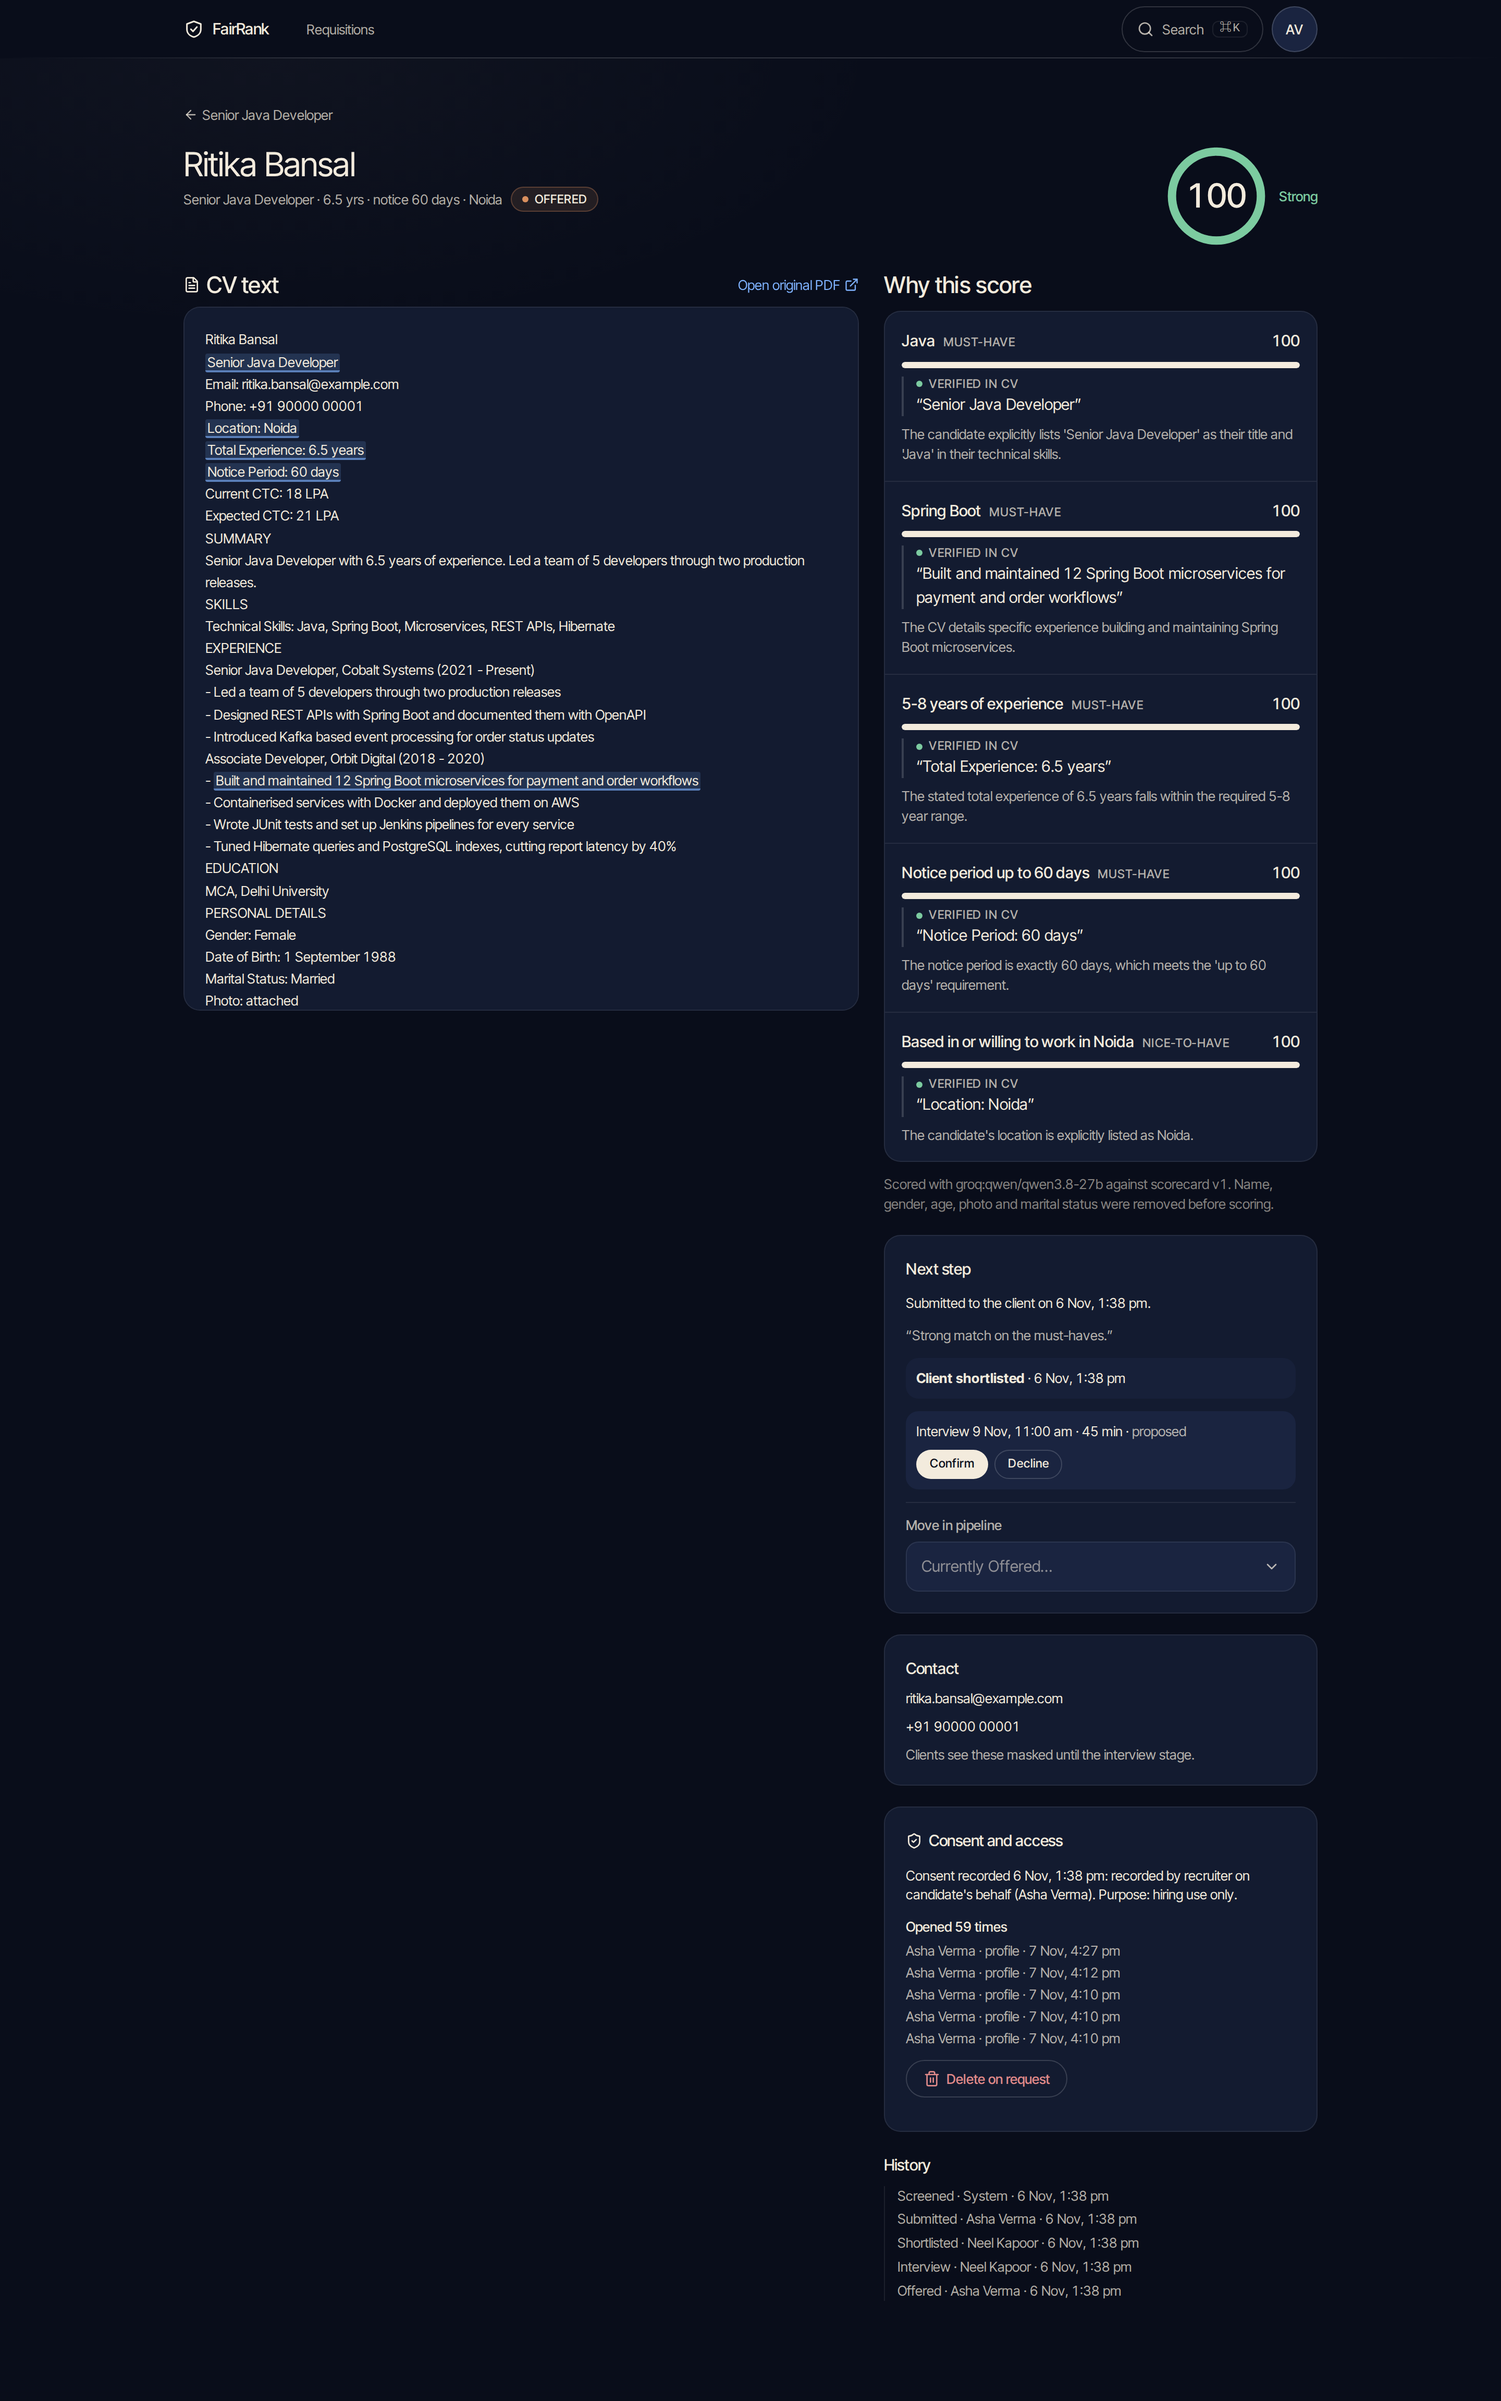
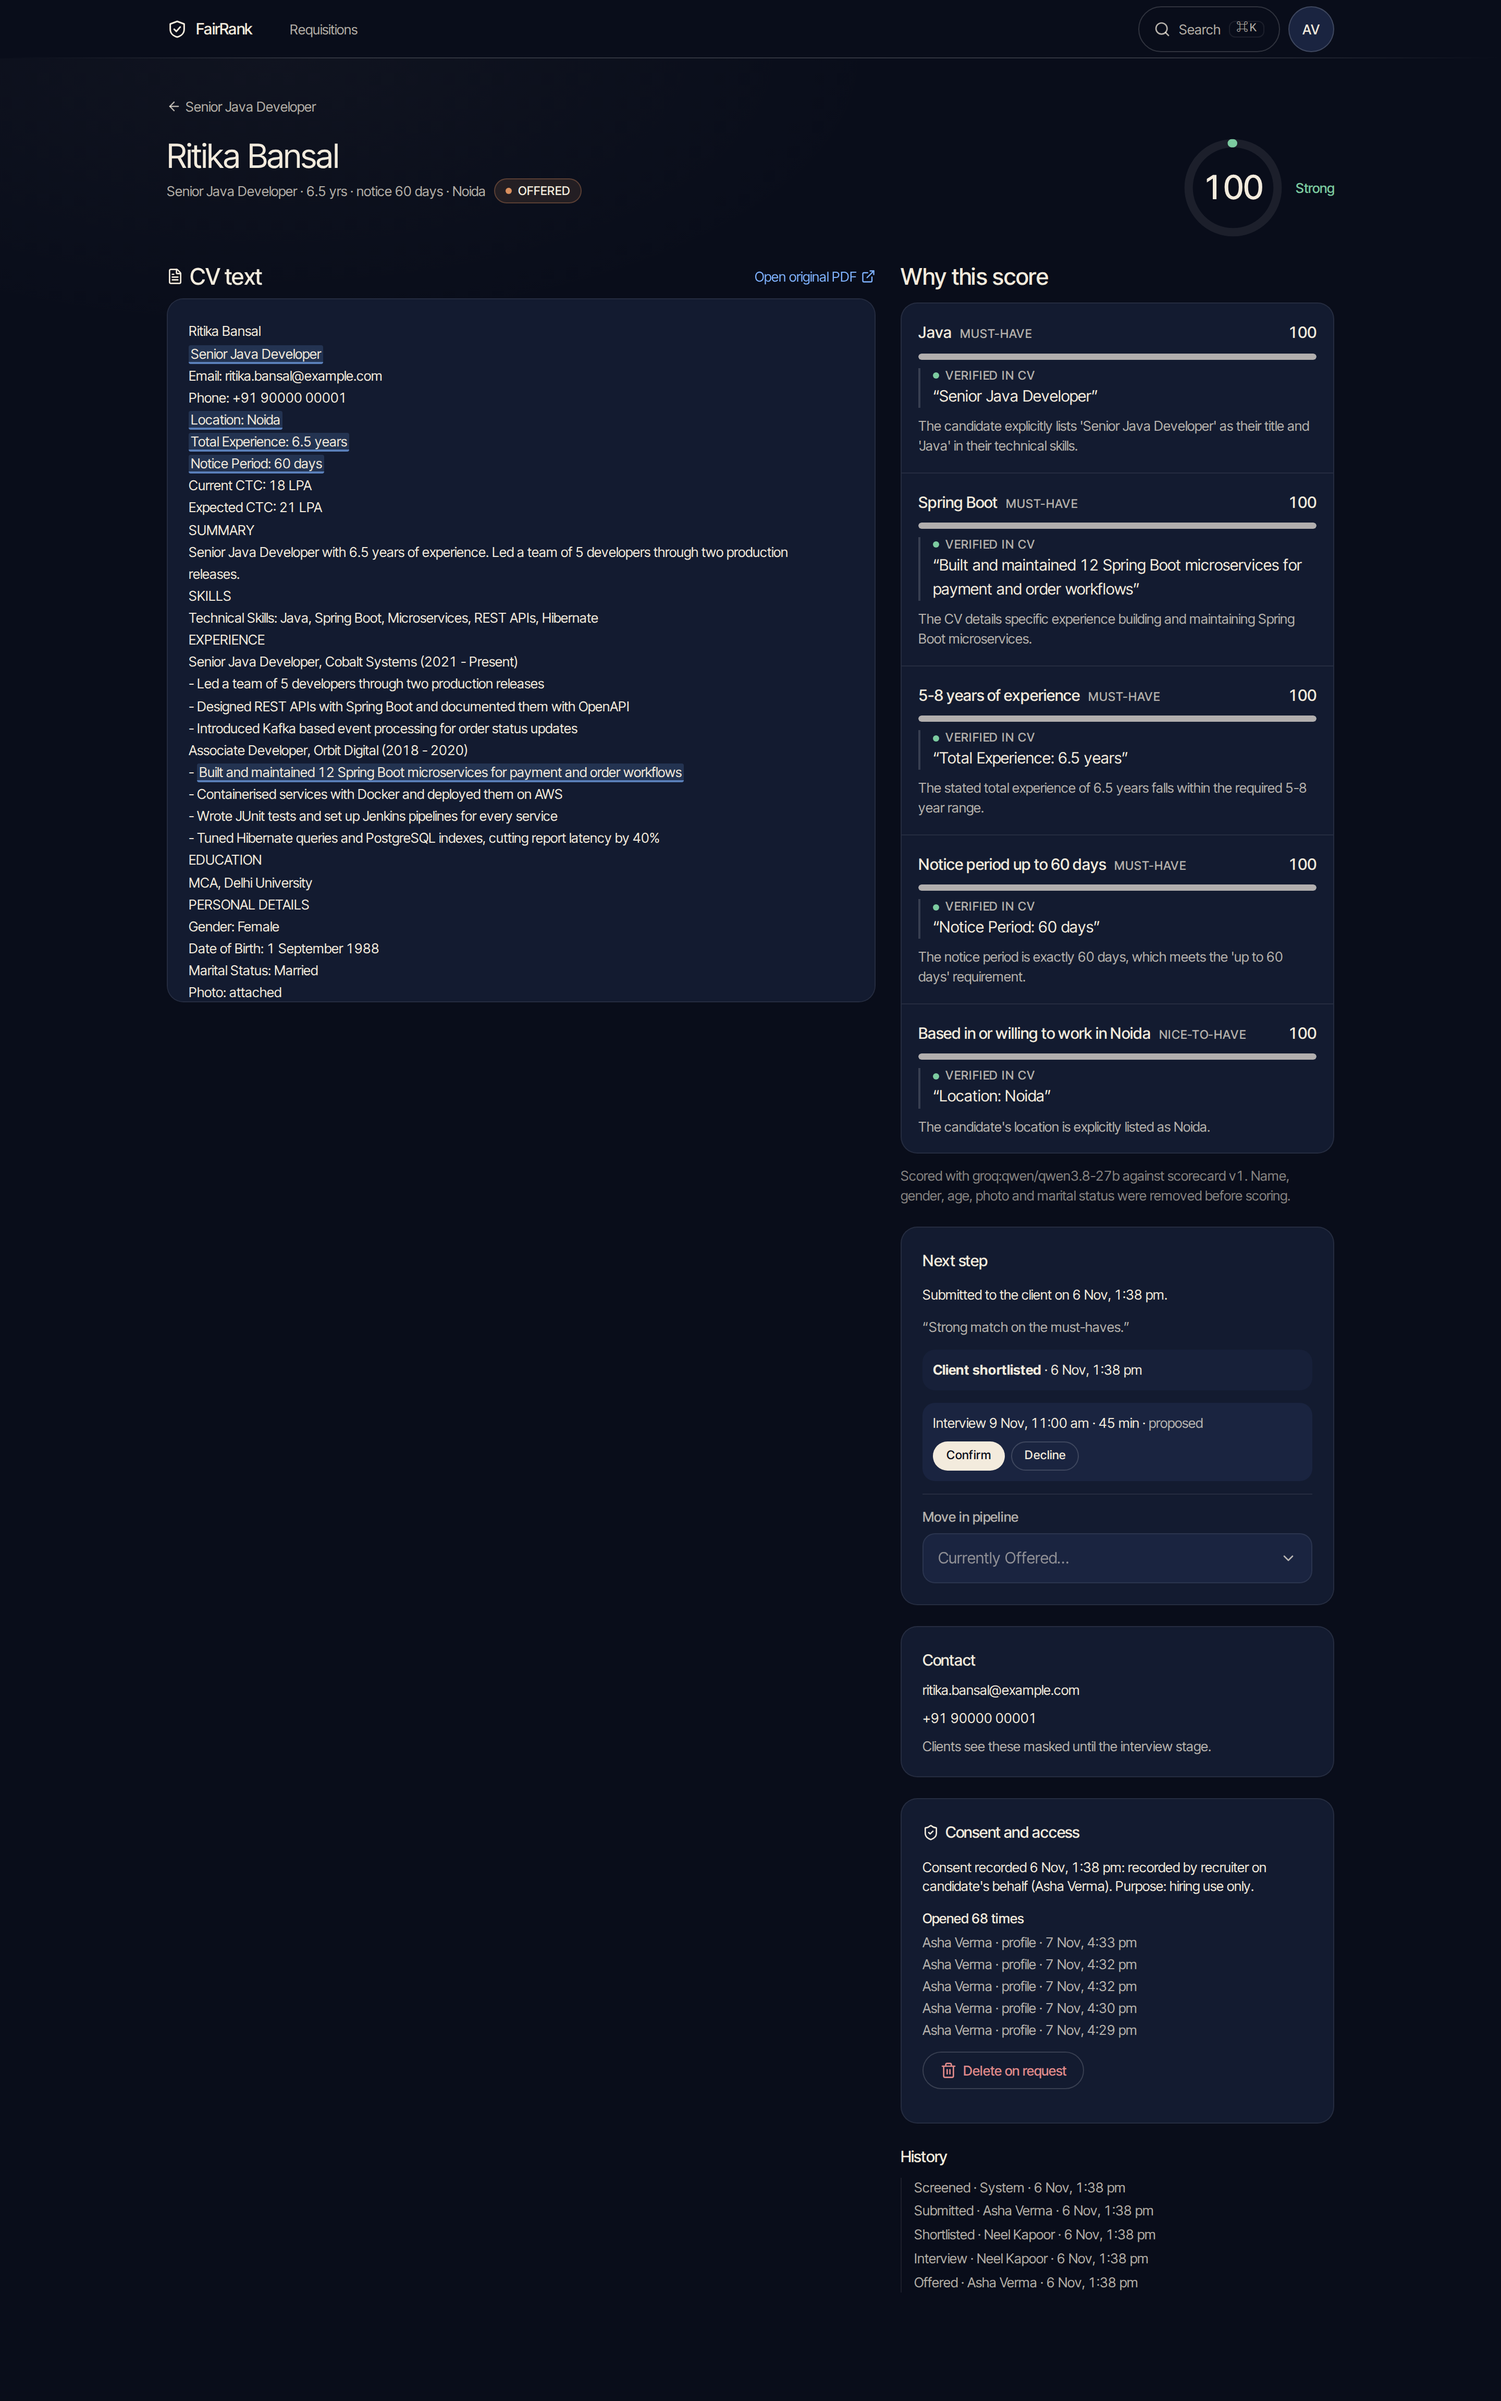
test(ui): round 3 review loop (unread label, phone ring size, darker login inputs, calmer score bars) and screenshots

diff --git a/frontend/src/pages/recruiter/RequisitionsPage.tsx b/frontend/src/pages/recruiter/RequisitionsPage.tsx
@@ -39,12 +39,6 @@ function Card({ r, list, i }: { r: Requisition; list?: RankedList; i: number }) 
             <h2 className="truncate text-body font-medium">{r.title}</h2>
             <p className="truncate text-small text-text-2">{r.client.name}{r.location && ` · ${r.location}`}</p>
           </div>
-          {s.unread > 0 && (
-            <span className="inline-flex shrink-0 items-center gap-1.5 text-micro uppercase text-signal" title={`${s.unread} scored CVs nobody has opened yet`}>
-              <span aria-hidden className="size-1.5 rounded-pill bg-signal" />
-              <span className="tnum">{s.unread}</span> unread
-            </span>
-          )}
         </div>
         <p className="tnum text-small text-text-2">
           {r.exp_min_years !== null && `${years(r.exp_min_years)}–${years(r.exp_max_years)}`}
@@ -62,6 +56,12 @@ function Card({ r, list, i }: { r: Requisition; list?: RankedList; i: number }) 
         <div className="flex flex-wrap items-baseline gap-x-4 gap-y-1 border-t pt-3 text-small">
           <span><strong className="tnum font-medium">{r.counts?.candidates ?? 0}</strong> <span className="text-text-2">{r.counts?.candidates === 1 ? 'CV' : 'CVs'}</span></span>
           <span><strong className="tnum font-medium">{r.counts?.submitted ?? 0}</strong> <span className="text-text-2">submitted</span></span>
+          {s.unread > 0 && (
+            <span className="inline-flex items-center gap-1.5 text-signal" title={`${s.unread} scored CVs nobody has opened yet`}>
+              <span aria-hidden className="size-1.5 rounded-pill bg-signal" />
+              <strong className="tnum font-medium">{s.unread}</strong> unread
+            </span>
+          )}
           <span className="tnum ml-auto text-text-2">{dateOnly(r.created_at)}</span>
         </div>
       </Link>
@@ -123,7 +123,7 @@ export function RequisitionsPage() {
       {query.data && reqs.length > 0 && (
         <div className="mb-6 grid grid-cols-3 gap-2 sm:gap-3">
           <Stat label="Open requisitions" value={stats.open} />
-          <Stat label="CVs screened this week" value={loaded ? stats.screened : null} />
+          <Stat label="Screened this week" value={loaded ? stats.screened : null} />
           <Stat label="Awaiting client" value={loaded ? stats.awaiting : null} />
         </div>
       )}

diff --git a/frontend/src/pages/LoginPage.tsx b/frontend/src/pages/LoginPage.tsx
@@ -83,10 +83,10 @@ function SignInCard({ form }: { form: UseFormReturn<Values> }) {
       <div className="space-y-1"><h2>Sign in</h2><p className="text-small text-text-2">Use your FairRank account.</p></div>
       <form className="space-y-3.5" noValidate onSubmit={handleSubmit((values) => login.mutate(values, { onSuccess: (u) => navigate(homeFor(u.role), { replace: true }) }))}>
         <Field label="Email" htmlFor="email" error={errors.email?.message}>
-          <Input id="email" type="email" autoComplete="username" className="border-border-strong bg-glass-strong" aria-invalid={!!errors.email} {...register('email')} />
+          <Input id="email" type="email" autoComplete="username" className="border-border-strong bg-bg-base/50" aria-invalid={!!errors.email} {...register('email')} />
         </Field>
         <Field label="Password" htmlFor="password" error={errors.password?.message}>
-          <Input id="password" type="password" autoComplete="current-password" className="border-border-strong bg-glass-strong" aria-invalid={!!errors.password} {...register('password')} />
+          <Input id="password" type="password" autoComplete="current-password" className="border-border-strong bg-bg-base/50" aria-invalid={!!errors.password} {...register('password')} />
         </Field>
         {login.isError && <p role="alert" className="text-small text-bad">{login.error.message}</p>}
         {/* on a phone the primary action is pinned to the bottom edge so it is always in thumb reach */}

diff --git a/frontend/src/components/ui/criterion-row.tsx b/frontend/src/components/ui/criterion-row.tsx
@@ -7,7 +7,7 @@ import { EvidenceQuote } from '@/components/ui/evidence-quote'
 export function ScoreBar({ points, className }: { points: number; className?: string }) {
   return (
     <div className={cn('h-1.5 w-full overflow-hidden rounded-pill bg-surface-2', className)} role="presentation">
-      <div className="h-full rounded-pill bg-accent" style={{ width: `${Math.max(0, Math.min(100, points))}%` }} />
+      <div className="h-full rounded-pill bg-text-1/70" style={{ width: `${Math.max(0, Math.min(100, points))}%` }} />
     </div>
   )
 }

diff --git a/frontend/src/pages/recruiter/CandidatePage.tsx b/frontend/src/pages/recruiter/CandidatePage.tsx
@@ -210,7 +210,7 @@ function Detail({ c }: { c: CandidateDetail }) {
             <StageBadge stage={c.stage} />
           </span>
         }
-        actions={<ScoreBadge score={sc} size="lg" />}
+        actions={<><span className="md:hidden"><ScoreBadge score={sc} /></span><span className="max-md:hidden"><ScoreBadge score={sc} size="lg" /></span></>}
       />
       </div>
       <div role="tablist" aria-label="Candidate sections" className="mb-4 grid grid-cols-3 gap-1 rounded-pill border p-1 lg:hidden">

diff --git a/docs/DESIGN.md b/docs/DESIGN.md
@@ -179,3 +179,9 @@ Final values live in `tokens.css`; everything below was checked with `scripts/co
 - Requisition card: ONE coloured element, the band distribution bar (4px high, 2px gaps). Pipeline progress is single-hue: filled segments `--signal`, empty segments 8% cream, text "Furthest: Joined". Stat tiles: card surface, no border, micro label, 40px light tabular number (no sparkline: no real series exists).
 - Ranked list: band filters are neutral cards with a 3px coloured left edge and a coloured count; selected = raised surface + `--signal` outline. Search and stage controls use the card surface with a 1px strong border and the signal focus ring.
 - Candidate detail: evidence in the CV text is a `--signal` 16% wash with a 2px bottom border at 60% and 2px radius; selecting a quote scrolls to it and pulses it once (900ms). The score header collapses into a compact sticky bar (name + score ring) once the page header scrolls away; the bar has zero layout height.
+
+### 8.3 Round 3 review notes (rules that came out of it)
+- A status label never shares a row with a truncating text line on a phone; put it in the footer row (requisition card "N unread").
+- Inputs on the glass login card use `bg-bg-base/50` (a darker well), not a light glass fill: crisp edge, higher contrast.
+- Criterion score bars are `text-1` at 70%, not full cream, so a row of 100s does not become a block of white.
+- The score ring on the candidate header is `md` on phones and `lg` from `md` up.

diff --git a/docs/PLAN.md b/docs/PLAN.md
@@ -54,4 +54,5 @@ Never cut: evidence verification, blind scoring, client isolation, open-before-s
 - [x] Workspace surface: ranked list, candidate detail, client portal (one review round each)
 - [x] Quality checklist run: `scripts/qa.sh` (widths 375/768/1440, states, keyboard, dead buttons, tabular figures, pixel contrast)
 - [x] Round 2 (depth ladder, login wow, workspace hierarchy, forms, phone pass): two review rounds, 74/74 QA checks, screenshots in `docs/screens/round2/`
+- [x] Round 3: login proof line (no card), neutral colour refinement, compact candidate header; 75/75 QA; screenshots in `docs/screens/round3/`
 - [ ] Still on the old styling (tokens only, not yet re-composed with the kit): requisitions list, scorecard editor, upload, pipeline, delivery head report
